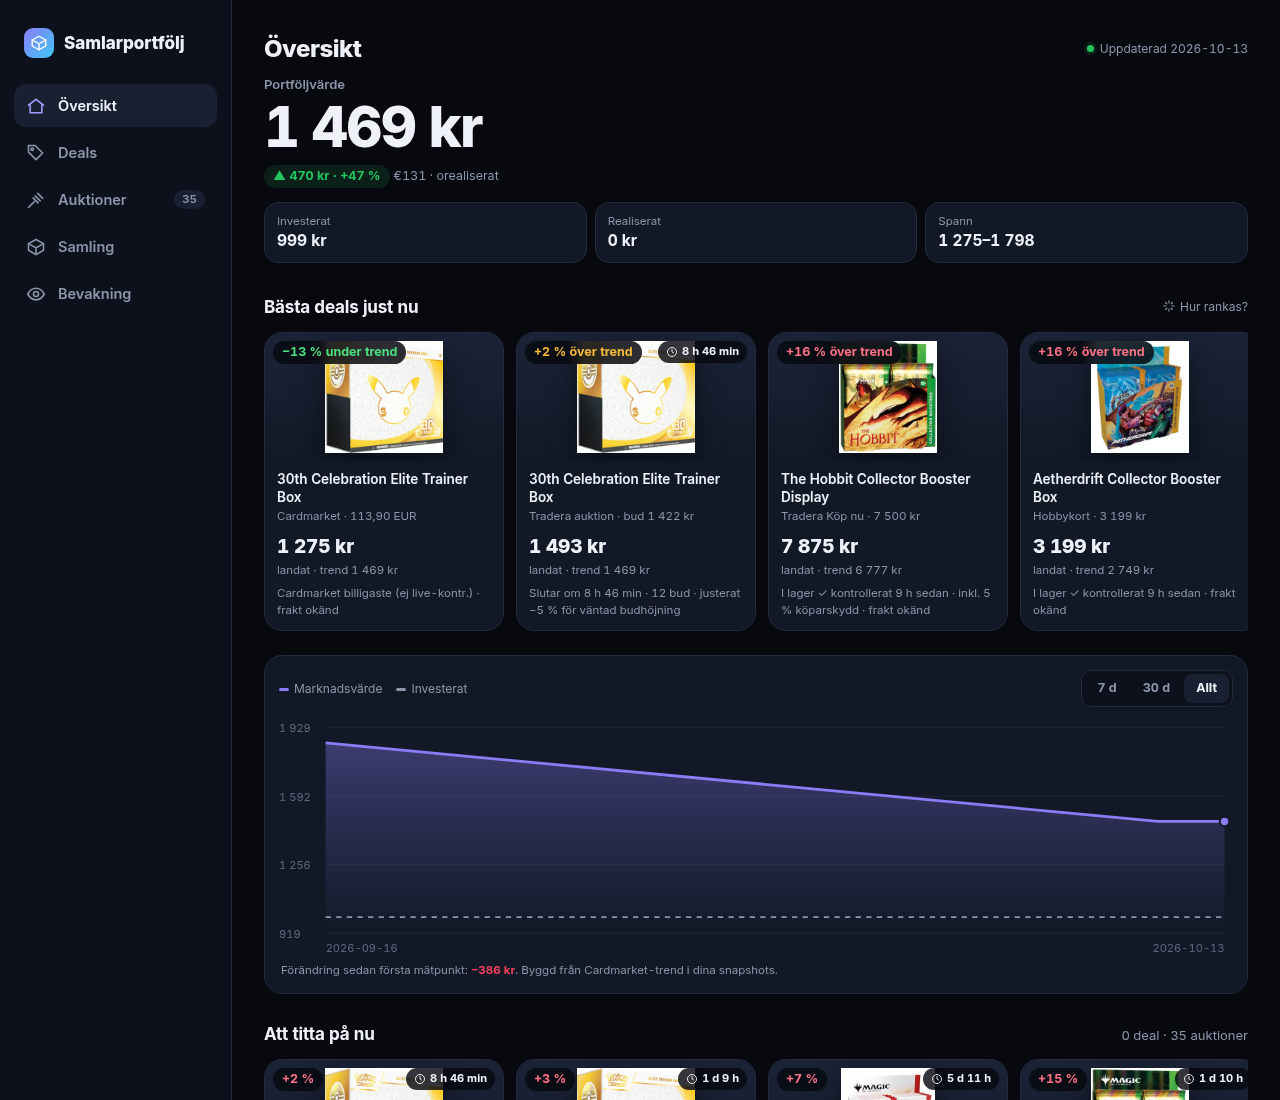
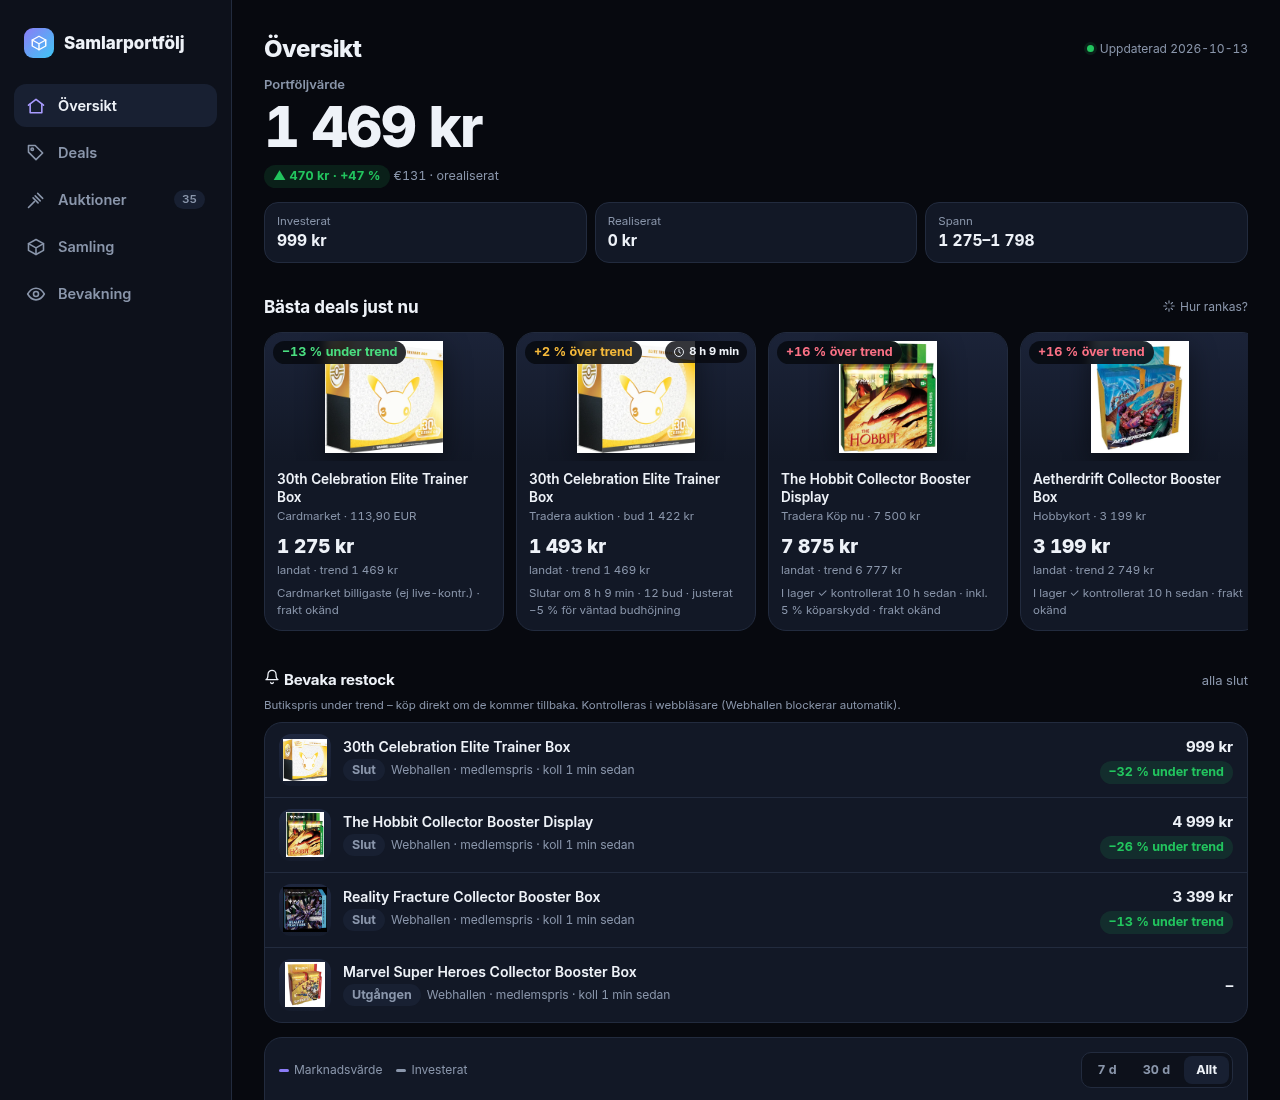
Webhallen restock-bevakning + Marvel Super Heroes, Reality Fracture

diff --git a/app.js b/app.js
@@ -82,7 +82,7 @@ function portfolioSeries() {
   const end = dnum(P.last_updated); if (pts.length && pts[pts.length - 1][0] < end) pts.push([end, totals().mid]);
   return pts;
 }
-const landed = o => { const r = R[o.currency]; if (r == null) return null; let b = (o.price * (1 + (o.fee_pct || 0) / 100) + (o.shipping || 0)) * r;
+const landed = o => { const r = R[o.currency]; if (r == null || o.price == null) return null; let b = (o.price * (1 + (o.fee_pct || 0) / 100) + (o.shipping || 0)) * r;
   if (o.origin === "non-EU") b = b * (1 + DS.customs_pct / 100) * (1 + DS.import_vat_pct / 100) + DS.non_eu_handling_fee_sek; return b; };
 function offersOf(it) {
   const [b] = bench(it), offers = it.offers || []; if (!offers.length) return [];
@@ -192,6 +192,15 @@ function dealCands() {
       why: `Slutar om ${countdown(a.ends_at)} · ${a.bids ? a.bids + " bud" : "inga bud"} · justerat −${r} % för väntad budhöjning`}); }
   return c.sort((x, y) => y.score - x.score);
 }
+function restock() {
+  const L = P.items.flatMap(it => offersOf(it).filter(o => o.restock_watch)).sort((a, b) => (b.d ?? -1e9) - (a.d ?? -1e9));
+  if (!L.length) return "";
+  return `<div class=sec><h2 style="font-size:15px">${ic("bell", 16)} Bevaka restock</h2><span>${L.filter(o => o.stock_status === "in_stock").length ? '<b class=g>I LAGER!</b>' : "alla slut"}</span></div>
+  <p class="xs mut" style="margin:-4px 0 8px">Butikspris under trend – köp direkt om de kommer tillbaka. Kontrolleras i webbläsare (Webhallen blockerar automatik).</p>
+  <div class=list>${L.map(o => `<a class=row href="${esc(o.url)}" target=_blank rel=noopener><div class=th>${img(o.item)}</div><div><div class=nm>${esc(short(o.item.name))}</div>
+    <div class=meta><span class="chip ${o.stock_status === "in_stock" ? "c-g" : "c-n"}">${o.discontinued ? "Utgången" : o.stock_status === "in_stock" ? "I lager!" : "Slut"}</span>${esc(o.source)}${o.members_only ? " · medlemspris" : ""} · koll ${ago(o.stock_checked_at)}</div></div>
+    <div class=rt><b>${o.price != null ? kr(o.price) : "–"}</b>${o.d != null ? vs(o.d) : ""}</div></a>`).join("")}</div>`;
+}
 function bestOf() {
   const all = dealCands(), cnt = {}, top = all.filter(x => (cnt[x.it.id] = (cnt[x.it.id] || 0) + 1) <= 2).slice(0, 6), any = top.length && top[0].score > 0;
   const info = `<details class=info><summary>${ic("spark", 14)} Hur rankas?</summary><div class="xs mut">Varje köpbart erbjudande rankas för sig, över alla bevakade objekt, efter <b>rabatt mot Cardmarket-trend</b> i landat SEK (pris + köparavgift/köparskydd + frakt + ev. importmoms).<br>• Butiker: bara verifierat i lager (lagerkoll) och engelska.<br>• Tradera Köp nu: +5 % köparskydd.<br>• Auktioner: nuvarande bud + avgifter, minus antagen budhöjning till slut: 15 % (> 3 d kvar), 10 % (1–3 d), 5 % (6–24 h), 2 % (< 6 h).<br>• Cardmarket: billigaste annons, inte live-kontrollerad.<br>Inga poäng för att bara finnas i lager. Okänd frakt räknas som 0.</div></details>`;
@@ -219,6 +228,7 @@ function vOverview() {
     <span class="chip ${t.unreal >= 0 ? "c-g" : "c-r"}">${t.unreal >= 0 ? "▲" : "▼"} ${kr(Math.abs(t.unreal))} · ${pctTxt(t.unreal / t.cost * 100)}</span> <span class="sm mut">${eur(t.mid)} · orealiserat</span>
     <div class=kpis><div class=kpi><span>Investerat</span><b>${kr(t.cost)}</b></div><div class=kpi><span>Realiserat</span><b class="${t.realised > 0 ? "g" : ""}">${kr(t.realised)}</b></div><div class=kpi><span>Spann</span><b>${fmt(t.lo)}–${fmt(t.hi)}</b></div></div></section>
   ${bestOf()}
+  ${restock()}
   <div class="card chartcard"><div class=top style="margin-bottom:8px"><div class=legend><span><i style="background:#8b7cf6"></i>Marknadsvärde</span><span><i style="background:#8a96ab"></i>Investerat</span></div>
     <div class=seg>${["7d", "30d", "all"].map(r => `<button class="${RANGE === r ? "on" : ""}" onclick="RANGE='${r}';route()">${r === "all" ? "Allt" : r.replace("d", " d")}</button>`).join("")}</div></div>
     <div class=pchart>${lineChart([{color: "#8b7cf6", fill: true, pts: shown.map(p => [...p])}], {cost: t.cost})}</div>

diff --git a/index.html b/index.html
@@ -1,7 +1,7 @@
 <!doctype html><html lang="sv"><head><meta charset="utf-8">
 <meta name="viewport" content="width=device-width,initial-scale=1,viewport-fit=cover">
 <meta name="theme-color" content="#07090f"><meta name="apple-mobile-web-app-capable" content="yes"><meta name="apple-mobile-web-app-status-bar-style" content="black-translucent">
-<title>Samlarportfölj</title><link rel="stylesheet" href="style.css?v=18"></head>
+<title>Samlarportfölj</title><link rel="stylesheet" href="style.css?v=19"></head>
 <body>
 <div class="shell">
   <aside class="side" id="side"></aside>
@@ -10,4 +10,4 @@
   </main>
 </div>
 <nav class="tabbar" id="tabbar"></nav>
-<script src="app.js?v=18"></script></body></html>
+<script src="app.js?v=19"></script></body></html>

diff --git a/stockcheck.py b/stockcheck.py
@@ -63,6 +63,8 @@ if __name__ == "__main__":
     p = json.loads(F.read_text()); dry = "--dry" in sys.argv; cnt = {}
     for i in p["items"]:
         for o in i.get("offers", []):
+            if o.get("manual_stock_check") == "browser":
+                print(f'{"(manuell)":13} {i["id"][:12]:12} {o["source"][:22]:22} – kontrollera i webbläsare (blockerar curl): {o["url"]}'); continue
             r = check(o["url"]); cnt[r["stock_status"]] = cnt.get(r["stock_status"], 0) + 1
             print(f'{r["stock_status"]:13} {i["id"][:12]:12} {o["source"][:22]:22} {o["price"]:>8} {o["currency"]} {r["stock_evidence"][:90]}{" DÖD LÄNK" if r.get("dead_link") else ""}')
             if not dry:

diff --git a/README.md b/README.md
@@ -94,3 +94,8 @@ Ranking av **enskilda köpbara erbjudanden** över alla objekt (app.js `dealCand
 3. Tradera: söksidans HTML innehåller JSON (`"items":[...]` före `"relatedItems"`) med itemUrl, itemType (Auction/AuctionBin/PureBin/ShopItem), price, totalBids, endDate (UTC), buyNowPrice. Lägg Köp nu som offer (fee_pct 5) och auktioner i `auctions` med item-URL. Ta bort Tradera-auktioner utan /item/-URL.
 4. Ej åtkomliga utan webbläsare (okt 2026): Cardmarket (Cloudflare 403), Webhallen, Inet, Spelexperten, Worlds of Wonder, Magic Madhouse, Fantasia, Spellbound, Fanatics – kolla manuellt/i webbläsare vid behov.
 5. `update.py stock` → `update.py check` → rapportera topp 3 i "Bästa deals" → `publish`.
+
+## Bevaka restock – Webhallen (manuell webbläsarkoll, mån & tors)
+Webhallen blockerar curl/automatik. Erbjudanden med `manual_stock_check: "browser"` hoppas över av `stockcheck.py` och ska **kontrolleras i webbläsaren (computerUse)** varje rutin: öppna varje Webhallen-URL med `restock_watch: true`, läs lagerstatus för webb och butik, uppdatera `stock_status`, `stock_checked_at`, `stock_evidence` (och pris) i data.json.
+**Om något är i lager (webb eller butik): meddela Gustaf omedelbart** (produkt, pris, länk, ev. köpbegränsning/medlemskrav) – vänta inte på rutinrapporten.
+Sajten visar dessa i sektionen "Bevaka restock" på Översikt (butikspris under trend, t.ex. 30th ETB 999 kr, Hobbit 4 999 kr).
